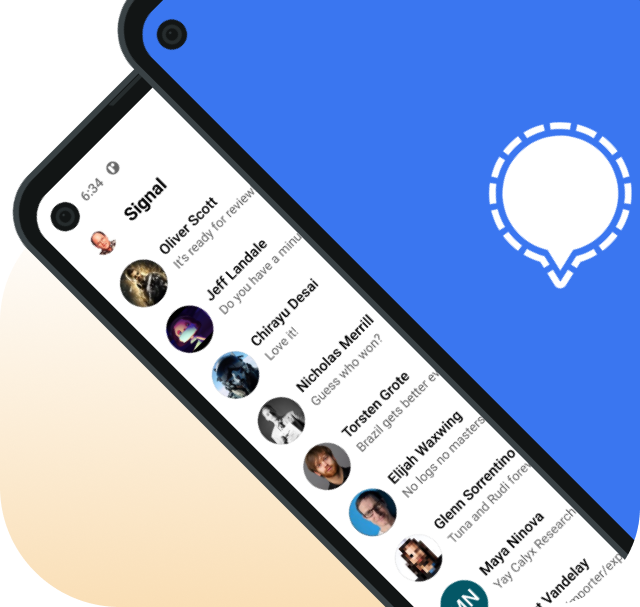
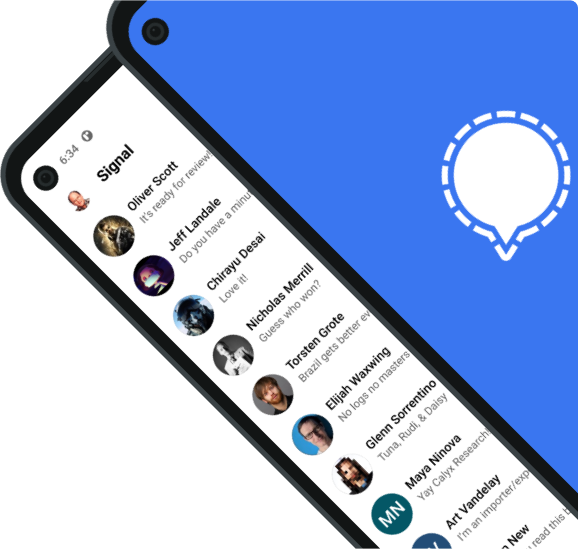
Update feature images

diff --git a/pages/_includes/features.html b/pages/_includes/features.html
@@ -33,7 +33,7 @@
 
 <section class="feature row">
   <div class="col-md-6">
-    <img class="img-fluid" src="{{ '/assets/images/os-updates.svg' | relative_url }}" alt="#">
+    <img class="img-fluid" src="{{ '/assets/images/os-updates.png' | relative_url }}" alt="#">
   </div>
   <div class="col-md-6 md-collapse-top-spacer">
     <h2>Regular Updates</h2>
